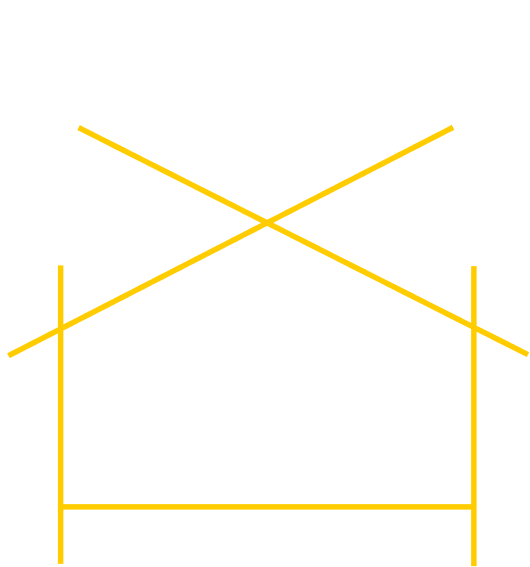
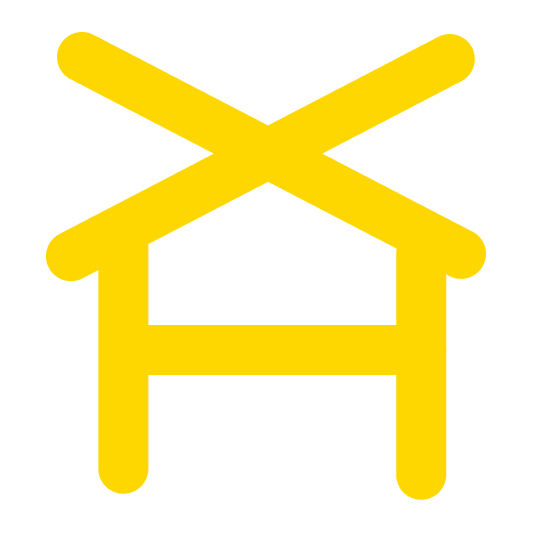
adjust copywrite for data science portfolios. Adjust color scheme.

diff --git a/src/scenes/MySkills.jsx b/src/scenes/MySkills.jsx
@@ -65,17 +65,17 @@ const MySkills = () => {
         >
           <div className="relative h-42">
             <div className="z-10">
-              <h1 className="font-averia font-semibold text-5xl">Graphic Design</h1>
-              <h2 className="font-averia font-semibold text-3xl mt-25">
-                Vector and Non-Vector Graphics, Digital and Mixed Media, Oil, Acrylics, and Pastels on Wood, Canvas or Paper...
-              </h2>
+              <h1 className="font-averia font-semibold text-5xl">Innovative Problem-Solving</h1>
+              <p className="font-averia font-semibold text-3xl mt-25">
+                Rono’s unique perspective as someone who is both dyslexic and autistic has shaped her ability to communicate complex ideas through visual and scientific expressions. Starting with visual storytelling, she has evolved this skill into a sophisticated approach to problem-solving in data science and machine learning.
+              </p>
             </div>
       
           </div>
-          <p className="mt-20 font-averia">
+          {/* <p className="mt-20 font-averia">
           Since her kindergarten years in Shanghai, her drawings have captivated audiences. Today she brings her creativity to life on the digital canvas. 
         
-          </p>
+          </p> */}
         </motion.div>
 
      {/* Custom Solutions */}
@@ -92,16 +92,16 @@ const MySkills = () => {
         >
           <div className="relative h-42">
             <div className="z-10">
-              <h1 className="font-averia font-semibold text-5xl">Custom Solutions</h1>
-              <h2 className="font-averia font-semibold text-3xl mt-25">
-                Tailored research and bespoke solutions to meet unique needs. 
-              </h2>
+              <h1 className="font-averia font-semibold text-5xl">Data Science Solutions</h1>
+              <p className="font-averia font-semibold text-3xl mt-25">
+              Rono excels in delivering tailored research and machine learning solutions designed to meet the specific needs of organizations. With a solid foundation in systems biology and extensive experience in data-driven environments, she has designed advanced content management systems, skill-tracking platforms, and inventory systems that enhance operational efficiency and strategic decision-making.
+              </p>
             </div>
    
           </div>
-          <p className="mt-20 font-averia">
+          {/* <p className="mt-20 font-averia">
           Her most fluent language is science, a disciplined approach she leverages to use research, hypothesis and data to help businesses clearly express the complex emotions of their brands. With a background in systems biology, she brings a unique perspective to designing content management systems, skill tracking systems, and inventory systems to help businesses smoothly integrate their operations and maintain precise control over their assets.
-          </p>
+          </p> */}
         </motion.div>
 
     {/* Ideas */}
@@ -118,16 +118,16 @@ const MySkills = () => {
         >
           <div className="relative h-42">
             <div className="z-10">
-              <h1 className="font-averia font-semibold text-5xl mt-10">Ideas</h1>
-              <h2 className="font-averia font-semibold text-3xl mt-25">
-              Creating solutions and contents with an emphasis on ethics and considering social and cultural impact.
-              </h2>
+              <h1 className="font-averia font-semibold text-5xl mt-10">Ethical and Impactful Innovation</h1>
+              <p className="font-averia font-semibold text-3xl mt-25">
+                Rono is deeply committed to creating technologically advanced yet ethically sound solutions. With multicultural experiences across three continents and a rich professional background, including her work at the largest bookstore in Los Angeles, she brings a global perspective and an ethical framework to every project. Her passion for ethical AI and the societal implications of technology ensures that her solutions are as culturally aware as they are innovative.
+              </p>
             </div>
      
           </div>
-          <p className="mt-20 font-averia">
-          Rono is passionate about creating ethical solutions that consider social and cultural impacts. With multicultural experiences across three continents and a diverse professional background, including working at the largest bookstore in Los Angeles, she is constantly surrounded by brilliant minds and innovative ideas. Her global perspective and rich experiences inspire her to craft thoughtful, impactful solutions for every project.
-          </p>
+          {/* <p className="mt-20 font-averia">
+            Rono is deeply committed to creating technologically advanced yet ethically sound solutions. With multicultural experiences across three continents and a rich professional background, including her work at the largest bookstore in Los Angeles, she brings a global perspective and an ethical framework to every project. Her passion for ethical AI and the societal implications of technology ensures that her solutions are as culturally aware as they are innovative.
+          </p> */}
         </motion.div>
 
       </div>

diff --git a/src/scenes/Landing.jsx b/src/scenes/Landing.jsx
@@ -51,24 +51,27 @@ const Landing = ({ setSelectedPage }) => {
             visible: { opacity: 1, x: 0 },
           }}
         >
-          <p className="text-6xl font-custom z-10 text-center md:text-start">
-            House of X
+          <h1 className="text-6xl font-custom z-10 text-center md:text-start">
+            X House 
   
-          </p>
+          </h1>
 
           <p className="mt-20 mb-20 text-3xl text-center md:text-start font-averia italic">
-            Where creative technology meets the art of branding.
+            Where Data Science, Innovation, and Inclusivity Converge
           </p>
 
           <p className="mt-10 mb-7 text-xl text-center md:text-start font-averia">
-           House of X is created by a multifaceted talent, (and hopefully team of talents some day) with a belief in cultivating a <span class="font-bold">more</span> neurodiverse future for all. Driven by love for art and science, and a relentless passion for effecting systemic change through the expression of designing better technologies using the language of love.
+            Welcome to X House, a dynamic hub for forward-thinking individuals in data science and machine learning, dedicated to creating a more inclusive and diverse future. We are committed to bridging the gap between society and technology, harnessing the art of data science to craft transformative solutions that drive business success and uplift communities—especially women, neurodiverse individuals, and minorities.
           </p>
           <p className="mb-10 mt-20 text-l text-center md:text-start font-averia">
-             Taste maker and culinary artist <span class="italic">Rono</span> graduated with duo Bsc. majors, with Honors, in Neuroscience, Computational & Systems Biology, now embarking on a journey pursuing a Master in Data Science in Biomedicine. She is a nerd who would like to pave out a new road map for all genders alike.  
+            Initiated by Rono, a Master’s student with dual B.Sc. degrees in Neuroscience and Computational & Systems Biology with Honors from UCLA, X House stands at the cutting edge of applying advanced data science methodologies to real-world challenges. With a Master’s in Data Science in Biomedicine underway, Rono brings a unique combination of scientific expertise, creative problem-solving, and a deep passion for inclusivity to every initiative.
+          </p>
+          <p className="mb-10 mt-20 text-l text-center md:text-start font-averia">
+            Our Learning Center is an integral part of our mission, offering insights, tutorials, and research designed to empower individuals and organizations from all backgrounds. We help you navigate the complexities of the digital age with confidence, ensuring that the future of technology is accessible to everyone.
           </p>
 
           <p className="mb-20 mt-20 text-m text-center md:text-start font-averia italic">
-            "I would like to help small to mid-size businesses transition and adapt gracefully into the digital and AI Age."
+            Join us at X House, where data science meets creativity, inclusivity, and impact.
           </p>
 
         </motion.div>
@@ -96,7 +99,7 @@ const Landing = ({ setSelectedPage }) => {
             onClick={() => setSelectedPage("contact")}
             href="#contact"
           >
-            Let's talk.
+            Let's talk
           </AnchorLink>
 
           {/* <AnchorLink

diff --git a/src/scenes/Navbar.jsx b/src/scenes/Navbar.jsx
@@ -2,6 +2,8 @@ import { useState } from "react";
 import AnchorLink from "react-anchor-link-smooth-scroll";
 import useMediaQuery from "../hooks/useMediaQuery";
 import '../fonts.css';
+import LogoIcon from '../assets/x-house-logo.svg';
+
 
 const Link = ({ page, selectedPage, setSelectedPage,externalLink }) => {
   const lowerCasePage = page.toLowerCase();
@@ -41,7 +43,8 @@ const Navbar = ({ isTopOfPage, selectedPage, setSelectedPage }) => {
   return (
     <nav className={`${navbarBackground} z-40 w-full fixed top-0 py-6`}>
       <div className="flex items-center justify-between mx-auto w-5/6">
-        <h4 className="font-custom text-3xl font-bold">House of X</h4>
+        {/* <h4 className="font-custom text-3xl font-bold">X House</h4> */}
+        <img src={LogoIcon} alt="X House Logo" className="h-5 w-auto" />
 
         {/* DESKTOP NAV */}
         {isDesktop ? (

diff --git a/tailwind.config.js b/tailwind.config.js
@@ -5,10 +5,10 @@ module.exports = {
   theme: {
     extend: {
       colors: {
-        "primary-blue": "#0055A4",
-        "primary-red": "#D32E2E",
-        "primary-yellow": "#FFCC00",
-        "black": "#000000",
+        "primary-blue": "#BDD4EF",
+        "primary-red": "#FF3939",
+        "primary-yellow": "#F18E1A",
+        "black": "#0B171B",
         "white": "#FFFFFF",
         "grey": "#E0E0E0",
         "dark-grey": "#333333",
@@ -20,7 +20,6 @@ module.exports = {
       }),
       fontFamily: {
         averia: ["'Averia Serif Libre'", "serif"],
-        major: ["'Major Mono Display'", "monospace"],
         custom: ["'MyCustomFont'", "sans-serif"],
       },
       content: {

diff --git a/src/scenes/Projects.jsx b/src/scenes/Projects.jsx
@@ -73,7 +73,7 @@ const Projects = () => {
             className="flex justify-center text-center items-center p-10 bg-primary-red
               max-w-[600px] max-h-[600px] text-2xl font-averia font-semibold"
           >
-            VISUALS EXPERIENCES
+            ENTREPRENEURIAL EXPERIENCES
           </div>
 
 
@@ -94,7 +94,7 @@ const Projects = () => {
             className="flex justify-center text-center items-center p-10 bg-primary-blue
               max-w-[600px] max-h-[600px] text-2xl font-averia font-semibold"
           >
-            MEANINGFUL DESIGNS
+            IMPACT RESEARCH
           </div>
         </motion.div>
       </div>

diff --git a/src/scenes/Footer.jsx b/src/scenes/Footer.jsx
@@ -7,10 +7,10 @@ const Footer = () => {
         <SocialMediaIcons />
         <div className="md:flex justify-center md:justify-between text-center  ">
           <p className="font-custom font-semibold text-5xl text-primary-red">
-            House of X
+            X House
           </p>
           <p className="font-averia text-md mt:20">
-            ©2024 House of X. All Rights Reserved.
+            ©2024 X House. All Rights Reserved.
           </p>
         </div>
       </div>

diff --git a/src/index.css b/src/index.css
@@ -10,7 +10,7 @@ body,
 #root,
 .app {
   height: 100%;
-  background-color: rgb(250, 246, 221); /*bauhaus inspired color*/
+  background-color: #F3EFD9; /*updated bauhaus inspired color*/
   @apply text-black;
 }
 
